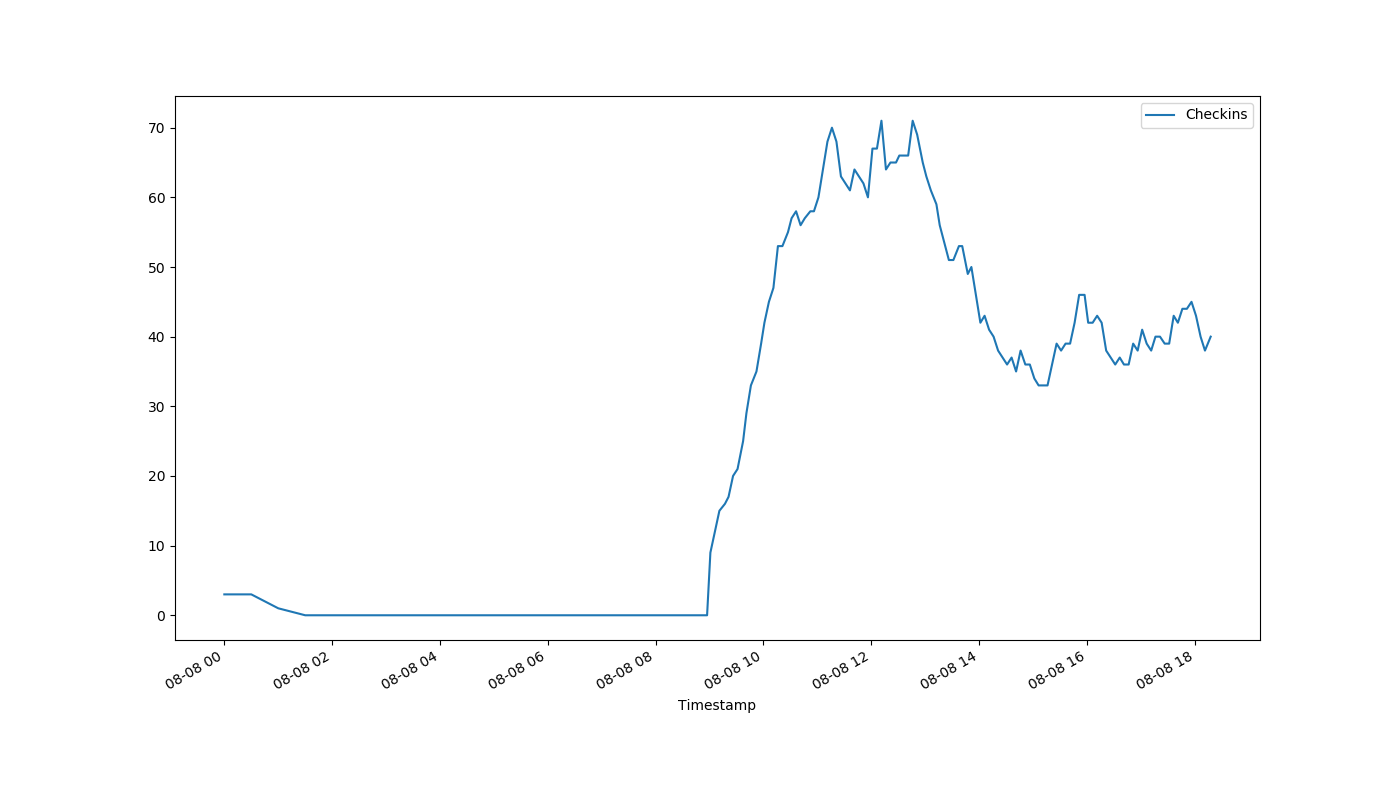
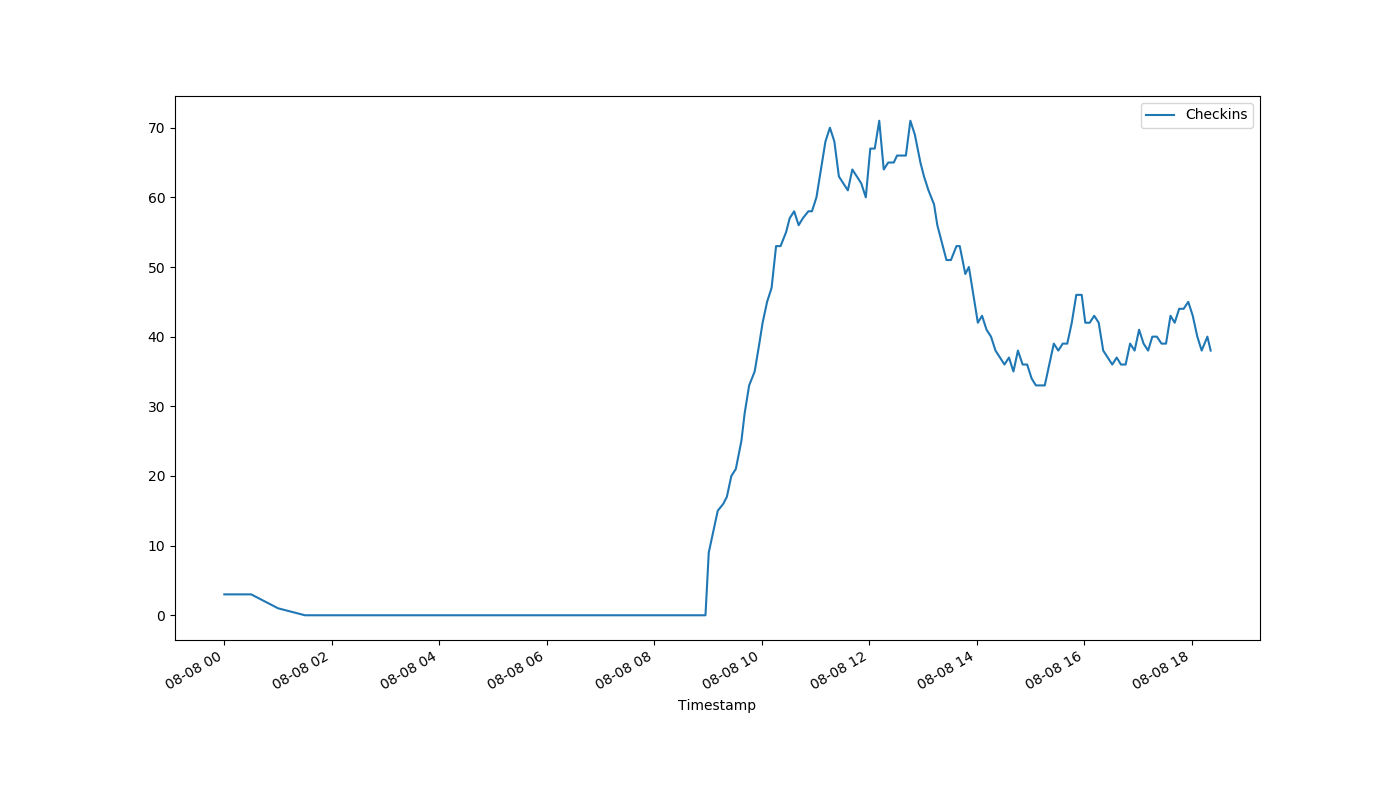
auto-Aug-08-18:23:50

diff --git a/index.html b/index.html
@@ -1,1 +1,1 @@
-<!DOCTYPE html><html><head><meta http-equiv="refresh" content="30"><link rel='stylesheet' href='holmcurrent.css'></head><body><p id='count'>40</p><div id='graph-wrap'><img id='graph' src='holmgraph-Aug-08.png'></div><p id='updated'>Last updated 18:18:05 / 18:17:29</p></body></html>
+<!DOCTYPE html><html><head><meta http-equiv="refresh" content="30"><link rel='stylesheet' href='holmcurrent.css'></head><body><p id='count'>38</p><div id='graph-wrap'><img id='graph' src='holmgraph-Aug-08.png'></div><p id='updated'>Last updated 18:22:05 / 18:21:10</p></body></html>
